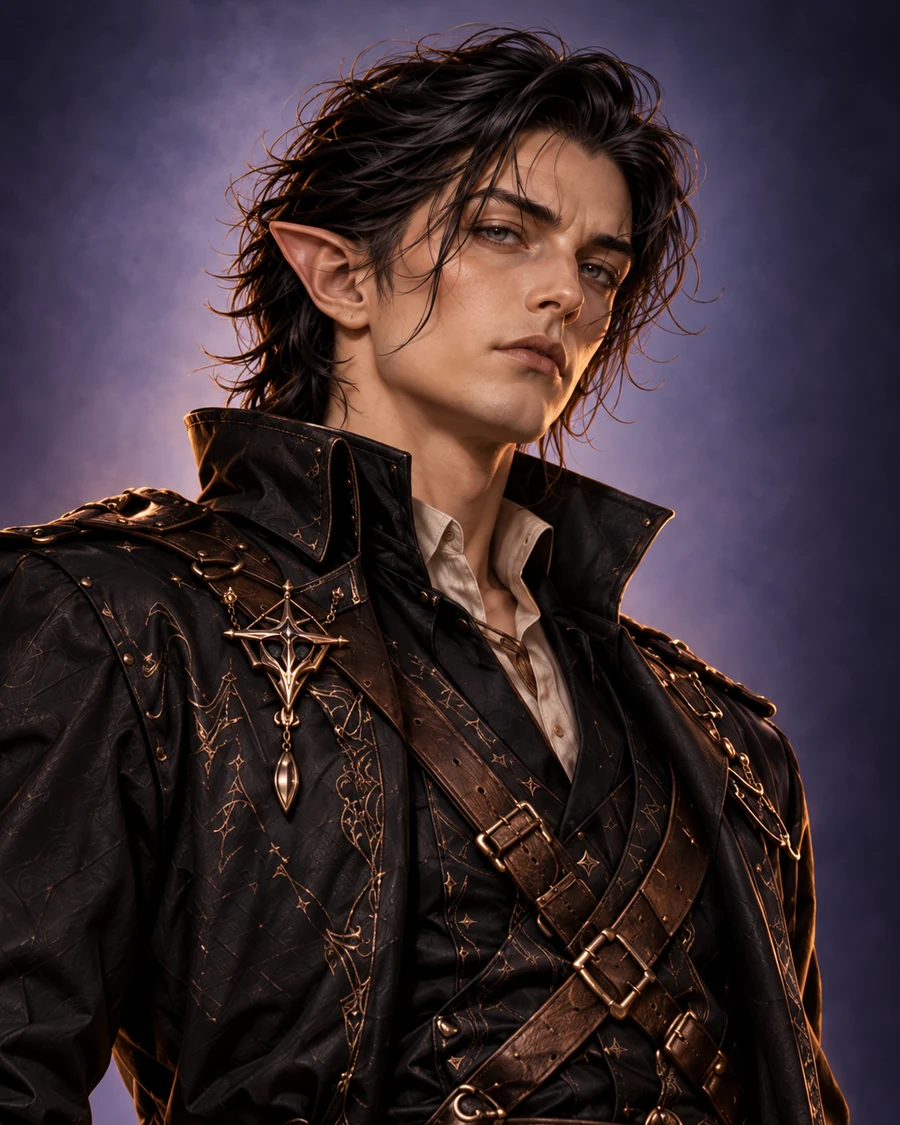
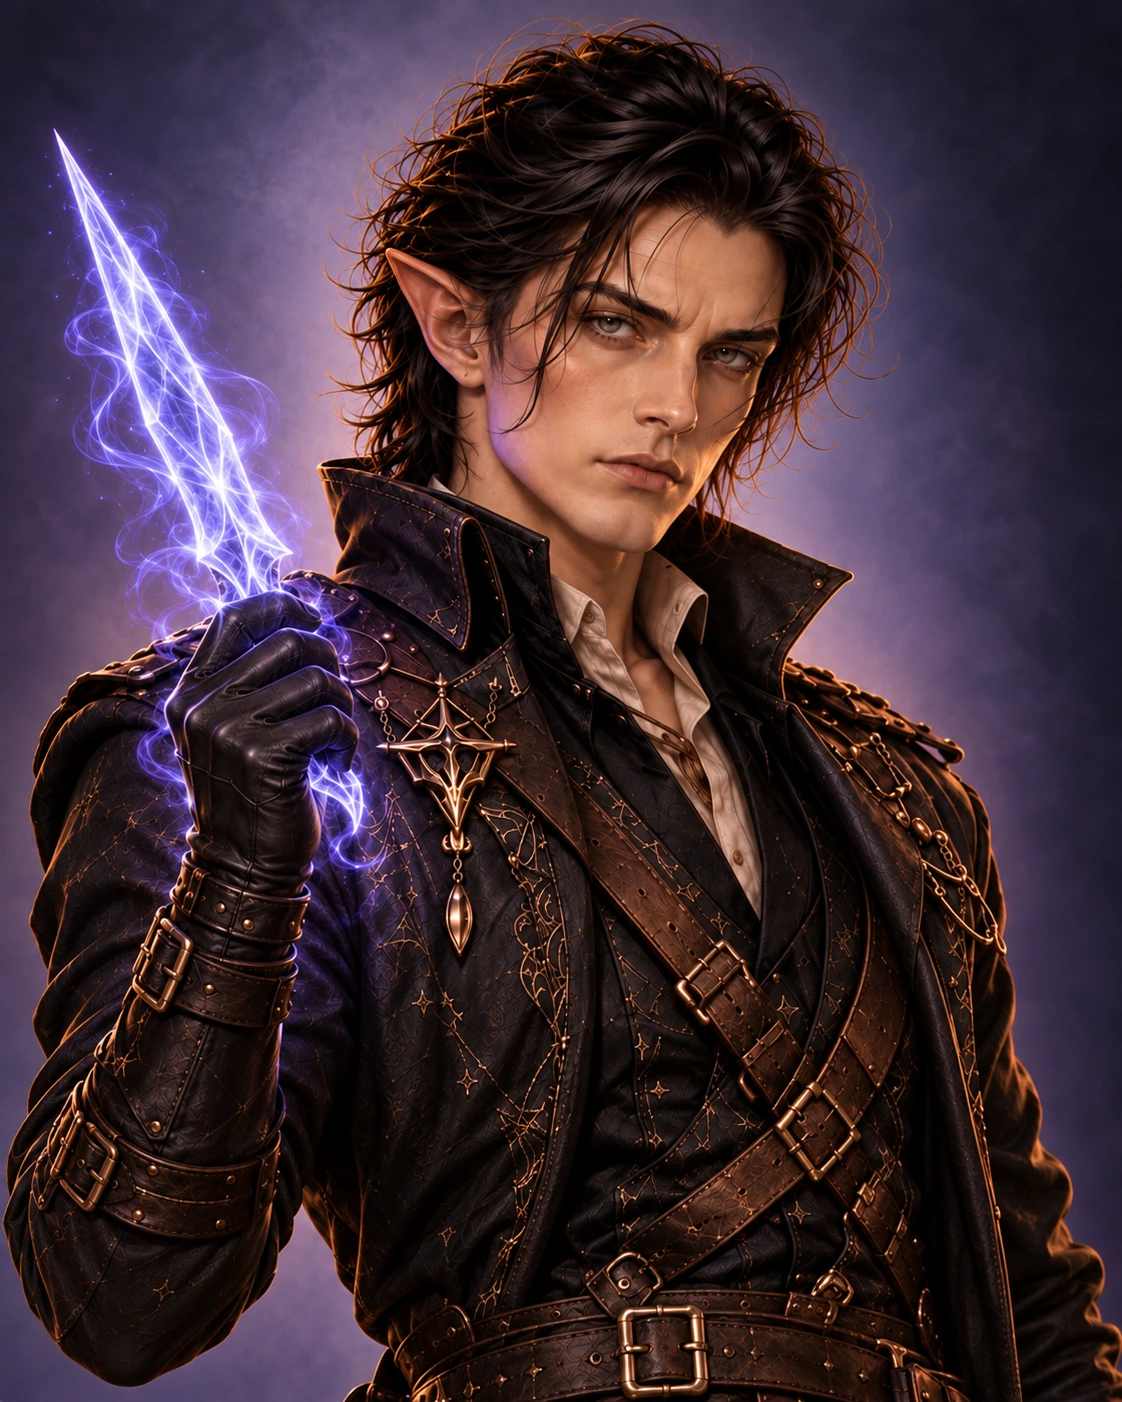
Add files via upload

diff --git a/script.js b/script.js
@@ -277,7 +277,13 @@ const GRIMWOOD_CHARACTERS = [
     fullImage: "assets/grimwood/characters/full/unnamed-sorcerer.webp",
     className: "Sorcerer",
     subclass: "Frost",
-    accent: "143, 208, 242"
+    accent: "143, 208, 242",
+    description: [
+      "Vaelis Rimehart was born in the frozen reaches of the Iron Peak Mountains, where he learned to read the strange signs hidden within blizzards, frost, and shifting mountain winds. His unusual gift for interpreting omens eventually led him to train under the Seers of Sea and Sky, studying the natural world for glimpses of what fate might bring.",
+      "During his training, Vaelis discovered that frost did more than surround him—it answered him. His innate sorcery manifested through ice and bitter cold, showing his gift for Cryomancy",
+      "At some point in his travels, Vaelis lost his right arm. Rather than accept the loss, he shaped his magic into a permanent prosthetic arm of living ice, one he can move as naturally as flesh.",
+      "Now he wanders beyond the Iron Peaks, following omens wherever they lead in hopes of uncovering the greater purpose behind his visions and finding where fate truly intends him to go."
+    ]
   },
   {
     slug: "lucien-veyr",
@@ -301,7 +307,7 @@ const GRIMWOOD_CHARACTERS = [
   }
 ];
 
-const ASSET_VERSION = '20261005-vaelis1';
+const ASSET_VERSION = '20261005-lucienpose1';
 const asset = path => `${path}?v=${ASSET_VERSION}`;
 
 const chronicleSelector = document.getElementById('chronicle-selector');

diff --git a/index.html b/index.html
@@ -485,6 +485,6 @@
     </section>
   </div>
 
-  <script src="script.js?v=20261005-theodas-description"></script>
+  <script src="script.js?v=20261005-vaelis-description"></script>
 </body>
 </html>
